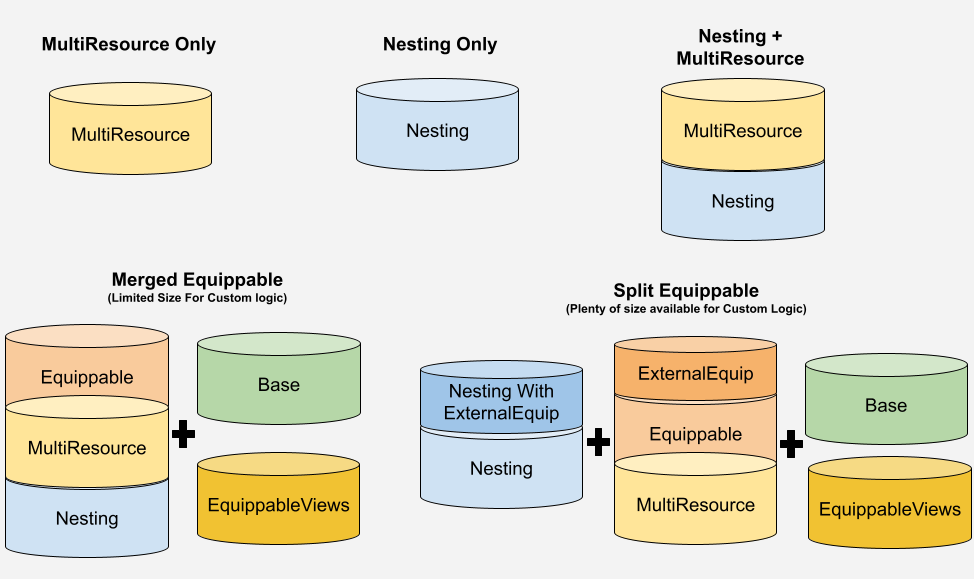
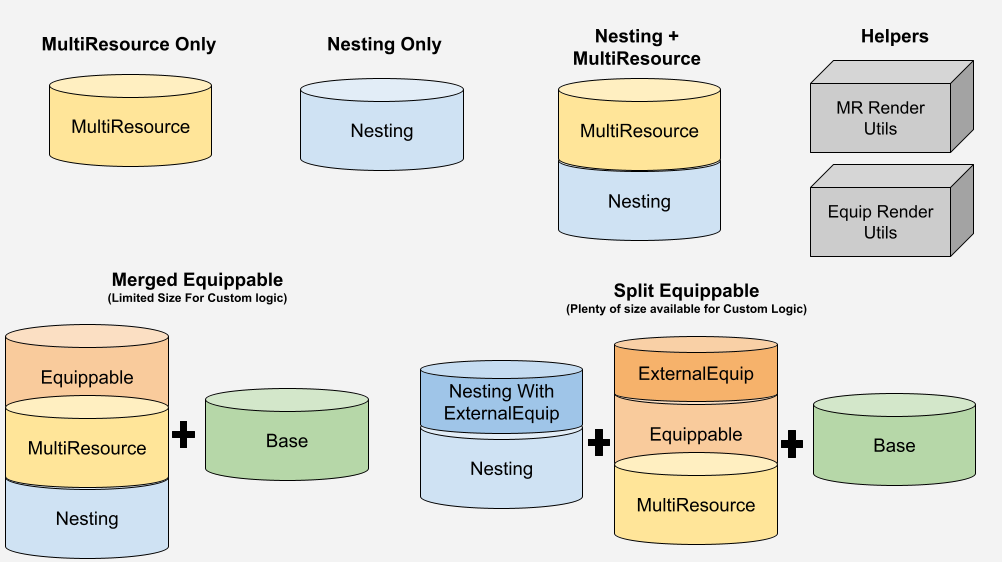
Updates readme and image to reflect render utils.

diff --git a/README.md b/README.md
@@ -29,12 +29,16 @@ For each of the lego combinations we have a sample Simple version.
 1. [Multiresource Only](https://github.com/rmrk-team/evm-sample-contracts/blob/master/contracts/SimpleMultiResource.sol)
 1. [Nesting Only](https://github.com/rmrk-team/evm-sample-contracts/blob/master/contracts/SimpleNesting.sol)
 1. [Nesting + Multiresource](https://github.com/rmrk-team/evm-sample-contracts/blob/master/contracts/SimpleNestingMultiResource.sol)
-1. [Nesting(ExternalEquip)](https://github.com/rmrk-team/evm-sample-contracts/blob/master/contracts/SimpleNestingExternalEquip.sol) + [Multiresource + Equippable(External)](https://github.com/rmrk-team/evm-sample-contracts/blob/master/contracts/SimpleExternalEquip.sol) + [Base](https://github.com/rmrk-team/evm-sample-contracts/blob/master/contracts/SimpleBase.sol)
 1. [Equippable(Merged)](https://github.com/rmrk-team/evm-sample-contracts/blob/master/contracts/SimpleEquippable.sol) + [Base](https://github.com/rmrk-team/evm-sample-contracts/blob/master/contracts/SimpleBase.sol)
+1. [Nesting(ExternalEquip)](https://github.com/rmrk-team/evm-sample-contracts/blob/master/contracts/SimpleNestingExternalEquip.sol) + [Multiresource + Equippable(External)](https://github.com/rmrk-team/evm-sample-contracts/blob/master/contracts/SimpleExternalEquip.sol) + [Base](https://github.com/rmrk-team/evm-sample-contracts/blob/master/contracts/SimpleBase.sol). If you don't need much custom logic, you will probably want to use the Merged version.
 
 For each of the lego combinations we have a sample Advanced version. It includes comments on the expected functionality to be implemented, and the internal functions available to do so. In this case, there's a merged version for equippable, but it will likely exceed the size limitation when fully implemented.
 1. [Multiresource Only](https://github.com/rmrk-team/evm-sample-contracts/blob/master/contracts/AdvancedMultiResource.sol)
 1. [Nesting Only](https://github.com/rmrk-team/evm-sample-contracts/blob/master/contracts/AdvancedNesting.sol)
 1. [Nesting + Multiresource](https://github.com/rmrk-team/evm-sample-contracts/blob/master/contracts/AdvancedNestingMultiResource.sol)
-1. [Nesting(ExternalEquip)](https://github.com/rmrk-team/evm-sample-contracts/blob/master/contracts/AdvancedNestingExternalEquip.sol) + [Multiresource + Equippable(External)](https://github.com/rmrk-team/evm-sample-contracts/blob/master/contracts/AdvancedExternalEquip.sol) + [Base](https://github.com/rmrk-team/evm-sample-contracts/blob/master/contracts/AdvancedBase.sol)
 1. [Equippable(Merged)](https://github.com/rmrk-team/evm-sample-contracts/blob/master/contracts/AdvancedEquippable.sol) + [Base](https://github.com/rmrk-team/evm-sample-contracts/blob/master/contracts/AdvancedBase.sol)
+1. [Nesting(ExternalEquip)](https://github.com/rmrk-team/evm-sample-contracts/blob/master/contracts/AdvancedNestingExternalEquip.sol) + [Multiresource + Equippable(External)](https://github.com/rmrk-team/evm-sample-contracts/blob/master/contracts/AdvancedExternalEquip.sol) + [Base](https://github.com/rmrk-team/evm-sample-contracts/blob/master/contracts/AdvancedBase.sol)
+
+Additionally we have to render util contracts. The reason these are separate is to save contract space. You can have a single deploy of those and use them on every contract or use exising ones (We'll provide them in the future).
+1. @rmrk-team/evm-contracts/contracts/RMRK/utils/RMRKMultiResourceRenderUtils.sol for shorcuts to get resource objects from Ids, and accepted or pending resource objects for a given token. The MR lego provides only Ids for the latter.
+1. @rmrk-team/evm-contracts/contracts/RMRK/utils/RMRKEquipRenderUtils.sol for the same shorcuts on extended resources (with equip information). This contract also has the views to get what a token has equipped and to compose equippables for a token-resource.
